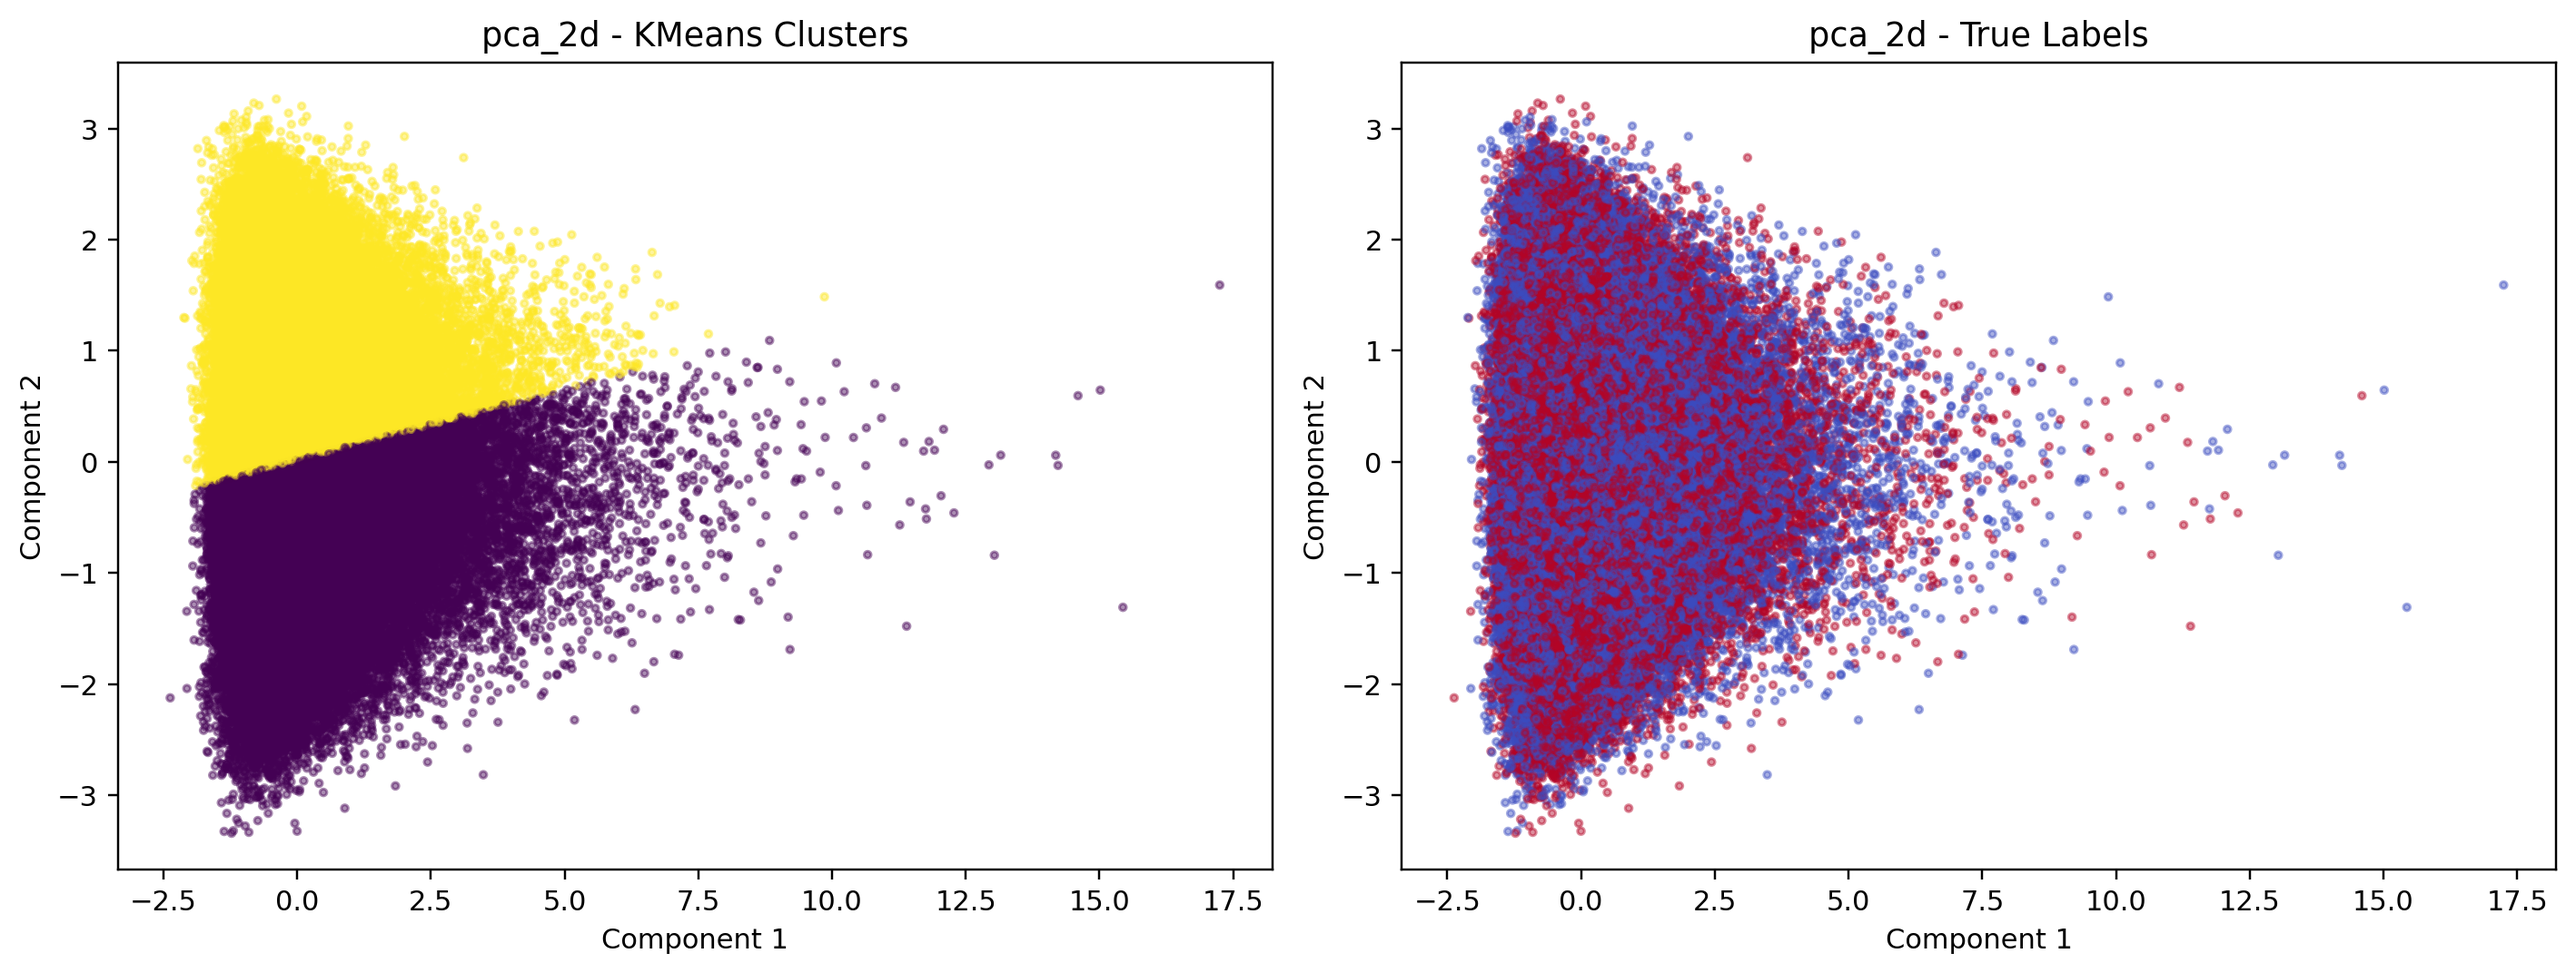
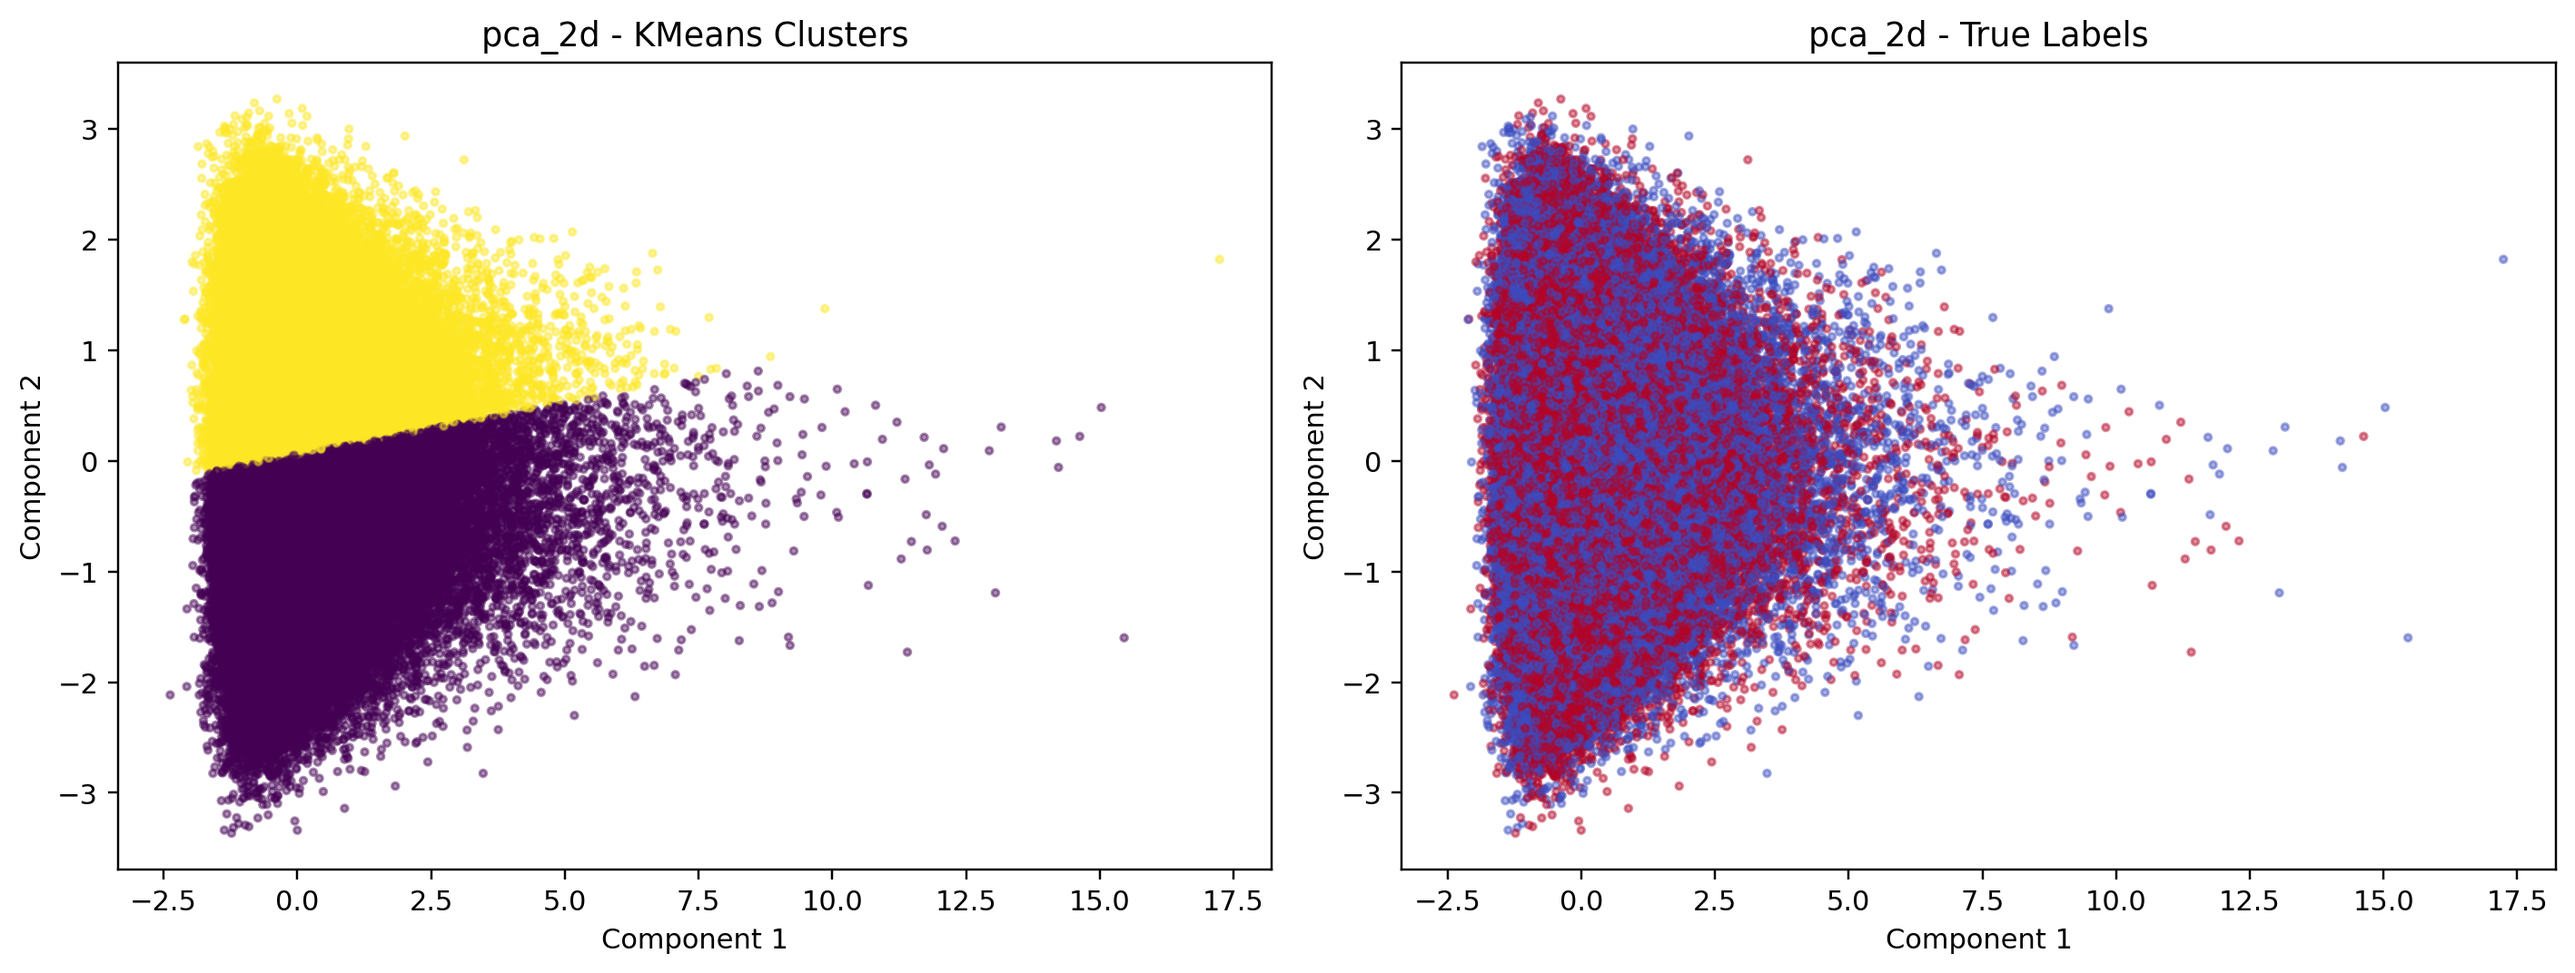
added full pipeline run for different sizes re-ran some commands to check data

diff --git a/README.md b/README.md
@@ -369,24 +369,59 @@ This is a quick way to see which representation produced the best clustering qua
 
 ### Commands used in this project
 
-200k rows:
-`python src/cluster_pca_compare.py --algorithm minibatch --rows 200000 --k 2 --output-dir Analysis_and_Findings/pca_kmeans_comparison_200k --cluster-output-dir data/processed/pca_kmeans_clusters_200k`
+Full pipeline for each size (PCA → K-Means baseline → size-specific comparison):
 
-500k rows:
-`python src/cluster_pca_compare.py --algorithm minibatch --rows 500000 --k 2 --output-dir Analysis_and_Findings/pca_kmeans_comparison_500k --cluster-output-dir data/processed/pca_kmeans_clusters_500k`
+**200k rows:**
+```bash
+python src/PCA.py --rows 200000 --output-dir data/processed/pca_200k
+python src/k-means.py --algorithm minibatch --rows 200000 --k 2 --output data/processed/higgs_clustered_200k.csv
+python src/cluster_pca_compare.py --algorithm minibatch --rows 200000 --k 2 --silhouette-sample 50000 \
+  --output-dir Analysis_and_Findings/pca_kmeans_comparison_200k \
+  --cluster-output-dir data/processed/pca_kmeans_clusters_200k \
+  --pca-2d-path data/processed/pca_200k/higgs_pca_2d.csv \
+  --pca-5d-path data/processed/pca_200k/higgs_pca_5d.csv \
+  --pca-10d-path data/processed/pca_200k/higgs_pca_10d.csv
+```
 
-1M rows:
-`python src/cluster_pca_compare.py --algorithm minibatch --rows 1000000 --k 2 --output-dir Analysis_and_Findings/pca_kmeans_comparison_1m --cluster-output-dir data/processed/pca_kmeans_clusters_1m`
+**500k rows:**
+```bash
+python src/PCA.py --rows 500000 --output-dir data/processed/pca_500k
+python src/k-means.py --algorithm minibatch --rows 500000 --k 2 --output data/processed/higgs_clustered_500k.csv
+python src/cluster_pca_compare.py --algorithm minibatch --rows 500000 --k 2 --silhouette-sample 50000 \
+  --output-dir Analysis_and_Findings/pca_kmeans_comparison_500k \
+  --cluster-output-dir data/processed/pca_kmeans_clusters_500k \
+  --pca-2d-path data/processed/pca_500k/higgs_pca_2d.csv \
+  --pca-5d-path data/processed/pca_500k/higgs_pca_5d.csv \
+  --pca-10d-path data/processed/pca_500k/higgs_pca_10d.csv
+```
 
+**1M rows:**
+```bash
+python src/PCA.py --rows 1000000 --output-dir data/processed/pca_1m
+python src/k-means.py --algorithm minibatch --rows 1000000 --k 2 --output data/processed/higgs_clustered_1m.csv
+python src/cluster_pca_compare.py --algorithm minibatch --rows 1000000 --k 2 --silhouette-sample 20000 \
+  --output-dir Analysis_and_Findings/pca_kmeans_comparison_1m \
+  --cluster-output-dir data/processed/pca_kmeans_clusters_1m \
+  --pca-2d-path data/processed/pca_1m/higgs_pca_2d.csv \
+  --pca-5d-path data/processed/pca_1m/higgs_pca_5d.csv \
+  --pca-10d-path data/processed/pca_1m/higgs_pca_10d.csv
+```
 
-### Current 200k summary snapshot (MiniBatch, k=2)
+### Results Summary: Clustering Quality Across Dataset Sizes
 
-- `original_28d`: silhouette `0.1815`, DBI `2.7934`
-- `pca_2d`: silhouette `0.3517`, DBI `1.1369`
-- `pca_5d`: silhouette `0.1854`, DBI `2.0516`
-- `pca_10d`: silhouette `0.0963`, DBI `3.0828`
+**Merged comparison table:** [Analysis_and_Findings/pca_kmeans_comparison_all_sizes.csv](Analysis_and_Findings/pca_kmeans_comparison_all_sizes.csv)
 
-In this run, PCA 2D gave the strongest clustering quality by both silhouette and Davies-Bouldin.
+**Comparison plot (silhouette & DBI trends):** [Analysis_and_Findings/pca_kmeans_comparison_across_sizes.png](Analysis_and_Findings/pca_kmeans_comparison_across_sizes.png)
+
+#### Key findings across 200k, 500k, and 1M:
+
+| Size | Best Dataset | Silhouette | DBI |
+|------|-------------|-----------|-----|
+| **200k** | `pca_2d` | 0.3515 | 1.1333 |
+| **500k** | `pca_2d` | 0.3547 | 1.1393 |
+| **1M** | `pca_2d` | 0.3497 | 1.1299 |
+
+PCA 2D consistently delivered the strongest clustering quality across all sizes. Original 28D features performed worst (lowest silhouette, highest DBI), while PCA 5D and 10D showed intermediate performance. This demonstrates that aggressive dimensionality reduction to 2D captures the most meaningful structure for k=2 clustering on HIGGS data.
 
 ### Troubleshooting: full-data run fails (`--rows` omitted)
 
